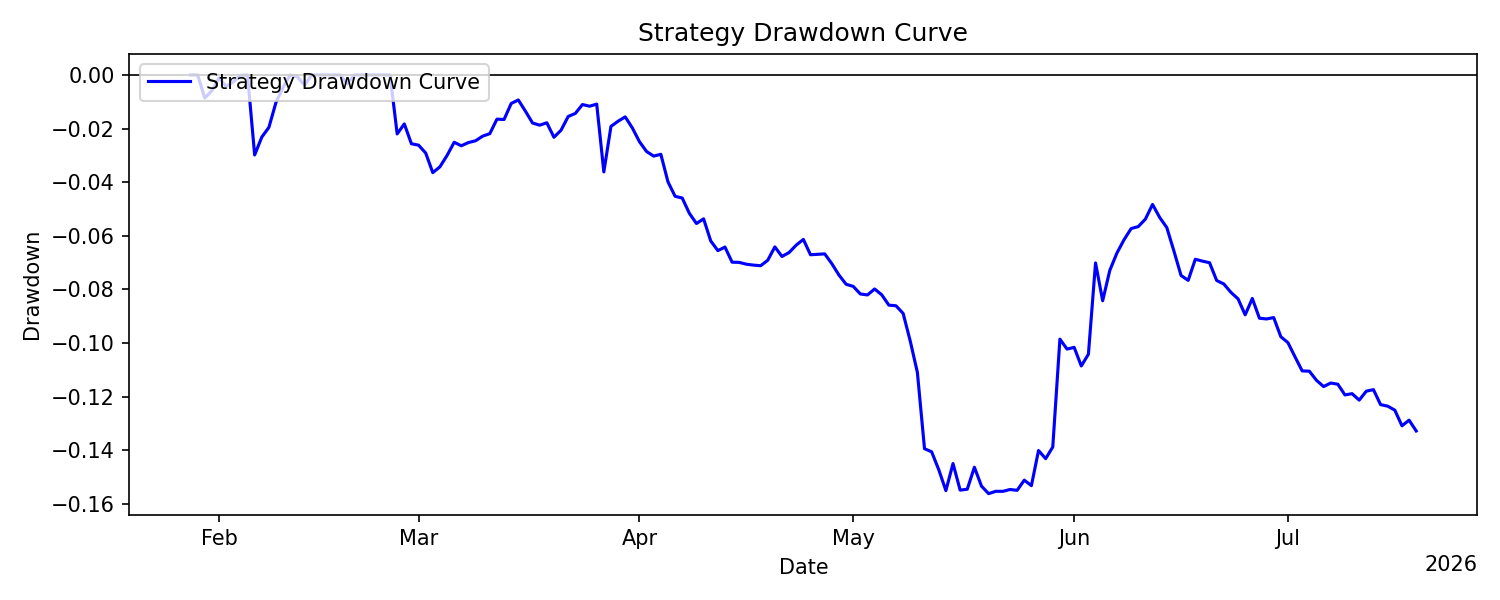
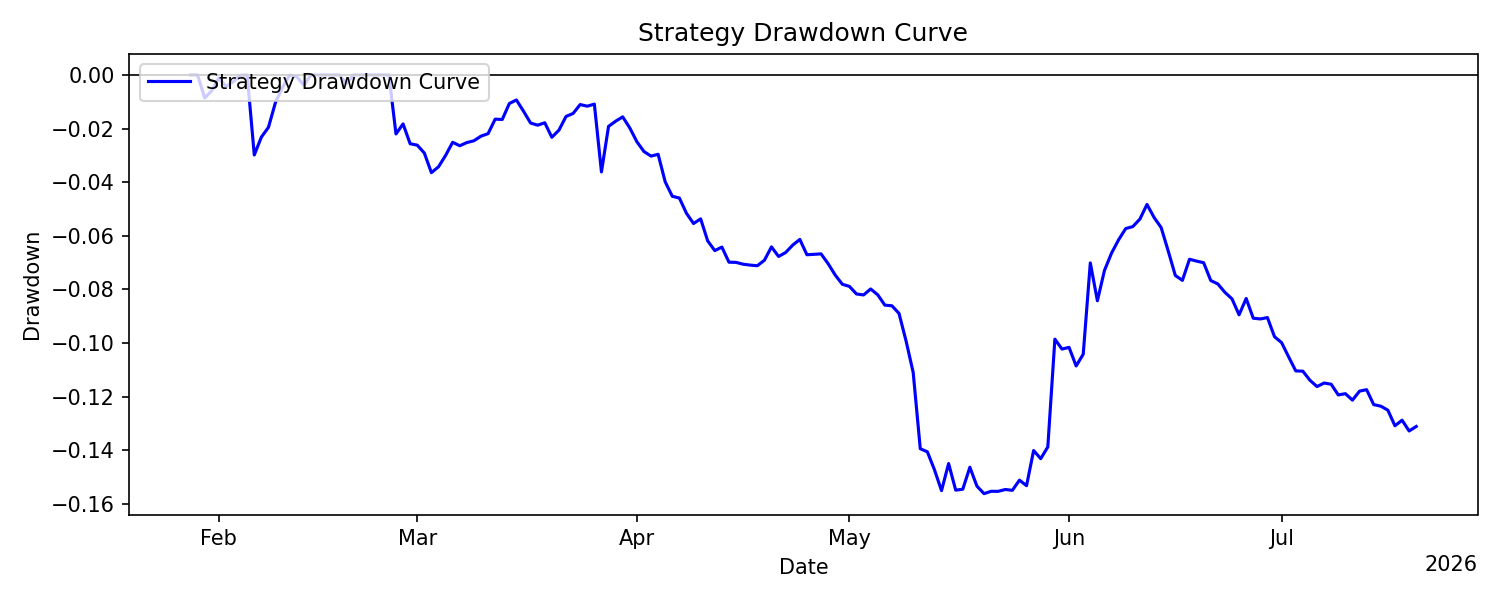
Update reports: 2026-07-20 00:00:03 UTC

diff --git a/README.md b/README.md
@@ -24,26 +24,26 @@ All results are live and reported net of transaction costs and slippage.
 <!-- METRICS_START -->
 | metric                       |        values |
 |:-----------------------------|--------------:|
-| Number of Observations       | 173           |
-| Mean Daily Return            |  -0.000455236 |
-| Daily Volatility             |   0.00857999  |
-| Mean Annualized Return       |  -0.166161    |
-| Annualized Volatility        |   0.16392     |
+| Number of Observations       | 174           |
+| Mean Daily Return            |  -0.000441577 |
+| Daily Volatility             |   0.00855705  |
+| Mean Annualized Return       |  -0.161175    |
+| Annualized Volatility        |   0.163482    |
 | Maximum Drawdown             |  -0.156146    |
-| Max Drawdown Duration (Days) | 144           |
-| Sharpe                       |  -1.01367     |
-| Sortino                      |  -1.40186     |
-| Calmar                       |  -1.06414     |
-| CAGR                         |  -0.164328    |
-| Skewness                     |   0.723016    |
-| Excess Kurtosis              |   8.73894     |
-| Win Rate                     |   0.462428    |
-| Profit Factor                |   0.844156    |
-| VaR 1%                       |  -0.0277057   |
+| Max Drawdown Duration (Days) | 145           |
+| Sharpe                       |  -0.98589     |
+| Sortino                      |  -1.35979     |
+| Calmar                       |  -1.03221     |
+| CAGR                         |  -0.16009     |
+| Skewness                     |   0.719865    |
+| Excess Kurtosis              |   8.79022     |
+| Win Rate                     |   0.465517    |
+| Profit Factor                |   0.847959    |
+| VaR 1%                       |  -0.0276759   |
 | CVaR 1%                      |  -0.030925    |
-| VaR 5%                       |  -0.0108848   |
+| VaR 5%                       |  -0.0108476   |
 | CVaR 5%                      |  -0.0208176   |
-| Correlation with BTC         |  -0.00766141  |
+| Correlation with BTC         |  -0.00933957  |
 <!-- METRICS_END -->
 
 ## Sharpe Statistics
@@ -55,14 +55,14 @@ All results are live and reported net of transaction costs and slippage.
 | metric                     |   values |
 |:---------------------------|---------:|
 | alpha                      |   0.05   |
-| t-statistic                |  -0.6979 |
-| p-value                    |   0.4862 |
-| Daily Sharpe Ratio         |  -0.0531 |
-| Annualized Sharpe Ratio    |  -1.0137 |
-| Sharpe Standard Error      |   1.4898 |
-| C.I. Lower Bound           |  -3.9336 |
-| C.I. Upper Bound           |   1.9063 |
-| Bootstrap C.I. Lower Bound |  -4.3882 |
-| Bootstrap C.I. Upper Bound |   2.9827 |
+| t-statistic                |  -0.6807 |
+| p-value                    |   0.497  |
+| Daily Sharpe Ratio         |  -0.0516 |
+| Annualized Sharpe Ratio    |  -0.9859 |
+| Sharpe Standard Error      |   1.4844 |
+| C.I. Lower Bound           |  -3.8952 |
+| C.I. Upper Bound           |   1.9234 |
+| Bootstrap C.I. Lower Bound |  -4.4201 |
+| Bootstrap C.I. Upper Bound |   2.8496 |
 <!-- SHARPE_END -->
 
